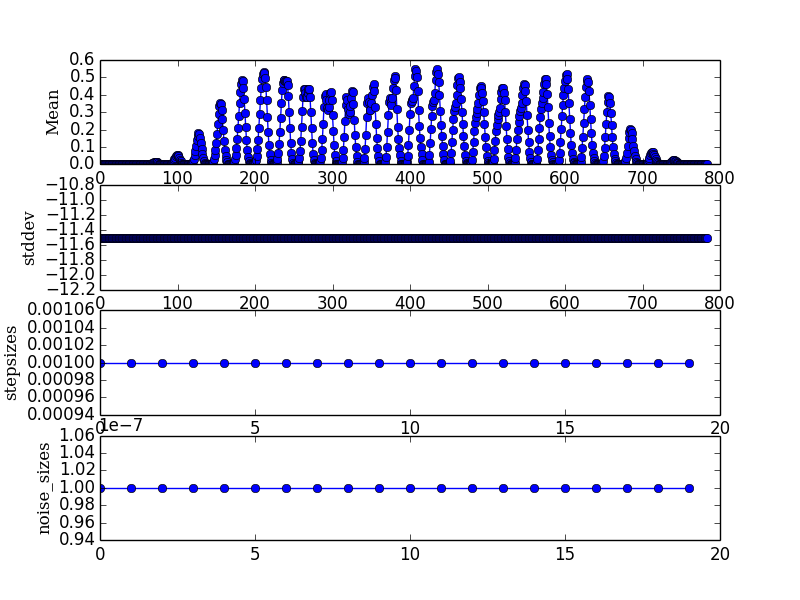
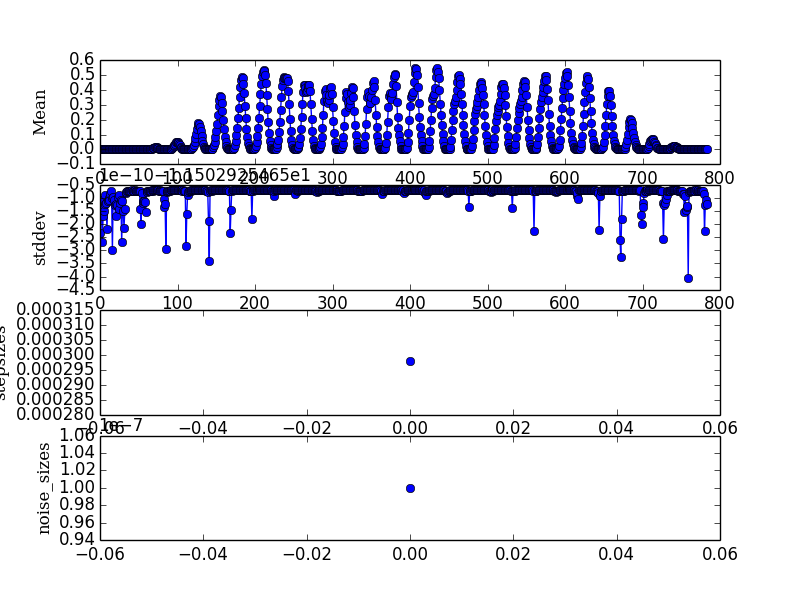
optimize mnist (poorly)

diff --git a/experiments/3-gen-images/main.py b/experiments/3-gen-images/main.py
@@ -60,7 +60,7 @@ def logprob_mvn(mean,cov,z):
 def plot_sampler_params(params, filename):
 
     mean = parser.get(params, 'mean')
-    stddev = parser.get(params, 'stddev')
+    stddev = parser.get(params, 'log_stddev')
     stepsizes = np.exp(parser.get(params, 'log_stepsizes'))
     noise_sizes = np.exp(parser.get(params, 'log_noise_sizes'))
 
@@ -89,8 +89,8 @@ def plot_sampler_params(params, filename):
 if __name__ == '__main__':
 
     t0 = time.time()
-    num_samples = 10
-    num_langevin_steps = 20
+    num_samples = 40
+    num_langevin_steps = 10
     num_sampler_optimization_steps = 20
     sampler_learn_rate = 0.001
 
@@ -110,7 +110,7 @@ if __name__ == '__main__':
             return nn_like(trained_weights,images,labels)+logprob_mvn(all_mean,all_cov,images)
         return cond_like
 
-    labels = np.zeros((1,num_samples))
+    labels = np.zeros((num_samples,1))
 
     cond_like = generative_conditional(labels)
 
@@ -124,27 +124,33 @@ if __name__ == '__main__':
 
     rs = np.random.npr.RandomState(0)
 
-    sample_and_run_langevin, parser = build_langevin_sampler(cond_like, D, num_langevin_steps)
+    sample_and_run_langevin, parser = build_langevin_sampler(cond_like, D, num_langevin_steps,approx = True)
 
     sampler_params = np.zeros(len(parser))
     parser.put(sampler_params, 'mean', init_mean)
     parser.put(sampler_params, 'log_stddev', init_stddevs)
     parser.put(sampler_params, 'log_stepsizes', init_log_stepsizes)
     parser.put(sampler_params, 'log_noise_sizes', init_log_noise_sizes)
+    #
+    # def get_batch_marginal_likelihood_estimate(sampler_params):
+    #     samples = [] # np.zeros((num_samples, D))
+    #     mls = []
+    #     for s in range(num_samples):
+    #         z, marginal_likelihood_estimate = sample_and_run_langevin(sampler_params, rs)
+    #         samples.append(z.value)
+    #         mls.append(marginal_likelihood_estimate)
+    #
+    #     samples = fast_array_from_list(samples)
+    #     # plot_density(samples, "approximating_dist.png")
+    #     matplotlib.image.imsave("optimizing", samples[0,:].reshape((28,28)))
+    #
+    #     return np.mean(mls)
 
     def get_batch_marginal_likelihood_estimate(sampler_params):
-        samples = [] # np.zeros((num_samples, D))
-        mls = []
-        for s in range(num_samples):
-            z, marginal_likelihood_estimate = sample_and_run_langevin(sampler_params, rs)
-            samples.append(z.value)
-            mls.append(marginal_likelihood_estimate)
+        samples, marginal_likelihood_estimates = sample_and_run_langevin(sampler_params, rs, num_samples)
+        matplotlib.image.imsave("optimizing", (samples[0,:].reshape((28,28))).value)
 
-        samples = fast_array_from_list(samples)
-        # plot_density(samples, "approximating_dist.png")
-        matplotlib.image.imsave("optimizing", samples[0,:].reshape((28,28)))
-
-        return np.mean(mls)
+        return np.mean(marginal_likelihood_estimates)
 
     ml_and_grad = value_and_grad(get_batch_marginal_likelihood_estimate)
 
